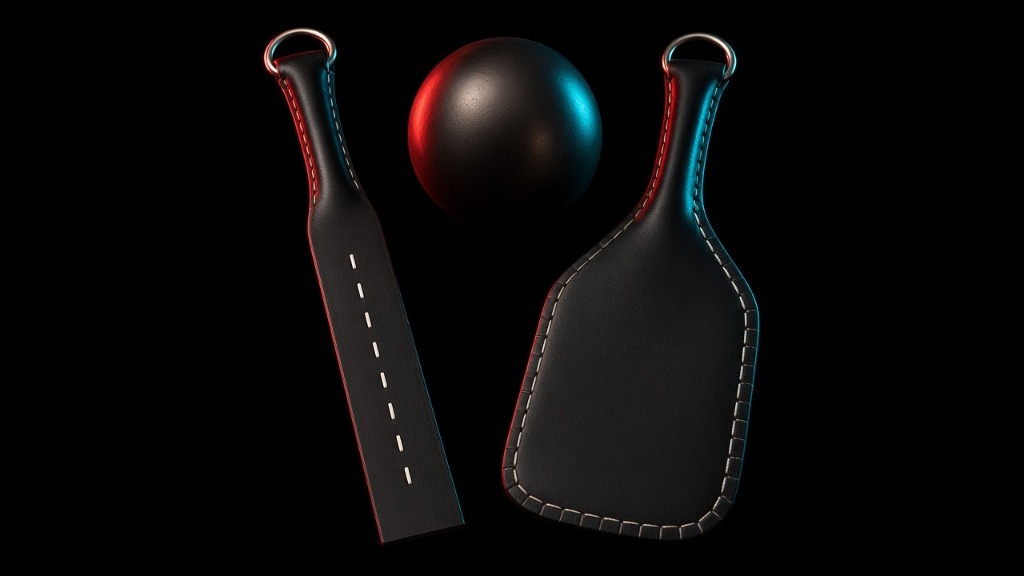
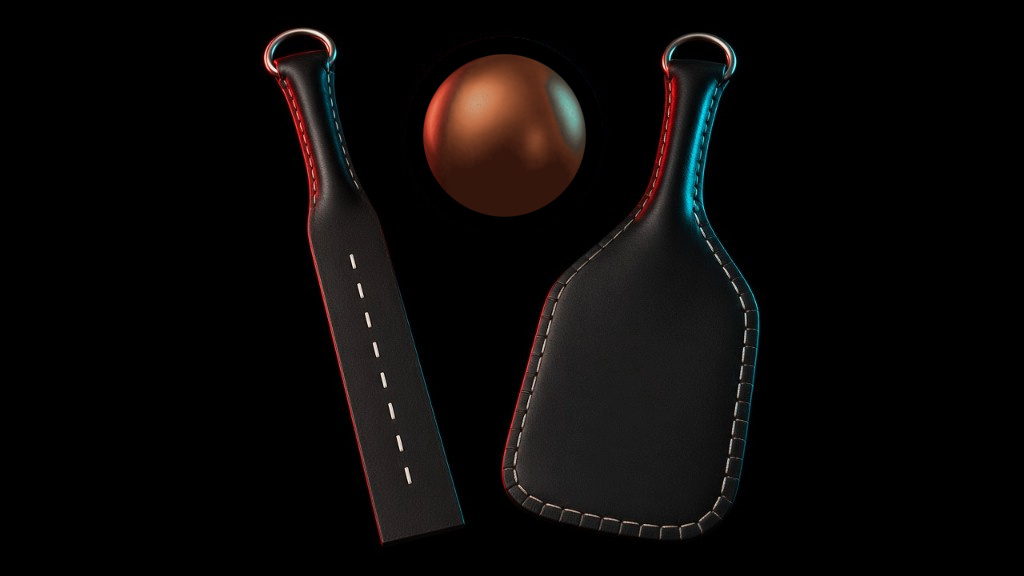
Give the RED sphere a copper finish and scale the photograph from the phone size down to the wide layout.

Changed region(s): [[0.375, 0.0625, 0.5938, 0.375]]

diff --git a/site/styles.css b/site/styles.css
@@ -766,17 +766,23 @@ body:has(.red-page) {
 .red-still img {
   position: absolute;
   display: block;
-  width: min(1120px, 82vw);
+  width: max(1120px, calc(1600px - 25vw));
   max-width: none;
   height: auto;
-  left: 30vw;
+  left: min(30vw, calc(78.571vw - 932.57px));
   top: calc(92px + 0.42 * (100vh - 92px) + 10vh);
   transform: translateY(-42%) scale(0.8);
   transform-origin: center center;
   opacity: 0.58;
   mix-blend-mode: screen;
-  -webkit-mask-image: radial-gradient(ellipse 74% 78% at 62% 48%, #000 36%, transparent 78%);
-  mask-image: radial-gradient(ellipse 74% 78% at 62% 48%, #000 36%, transparent 78%);
+  -webkit-mask-image:
+    linear-gradient(to right, transparent 0%, #000 12%, #000 88%, transparent 100%),
+    linear-gradient(to bottom, #000 0%, #000 64%, transparent 94%);
+  mask-image:
+    linear-gradient(to right, transparent 0%, #000 12%, #000 88%, transparent 100%),
+    linear-gradient(to bottom, #000 0%, #000 64%, transparent 94%);
+  -webkit-mask-composite: source-in;
+  mask-composite: intersect;
 }
 .red-kicker {
   margin: 0;
@@ -822,8 +828,14 @@ body:has(.red-page) {
     transform: scale(0.8);
     transform-origin: center center;
     opacity: 0.62;
-    -webkit-mask-image: radial-gradient(ellipse 52% 48% at 50% 46%, #000 28%, transparent 74%);
-    mask-image: radial-gradient(ellipse 52% 48% at 50% 46%, #000 28%, transparent 74%);
+    -webkit-mask-image:
+      linear-gradient(to right, transparent 0%, #000 18%, #000 82%, transparent 100%),
+      linear-gradient(to bottom, #000 0%, #000 62%, transparent 92%);
+    mask-image:
+      linear-gradient(to right, transparent 0%, #000 18%, #000 82%, transparent 100%),
+      linear-gradient(to bottom, #000 0%, #000 62%, transparent 92%);
+    -webkit-mask-composite: source-in;
+    mask-composite: intersect;
   }
 }
 @media (max-width: 760px) {

diff --git a/site/red.html b/site/red.html
@@ -11,7 +11,7 @@
   <link rel="preconnect" href="https://fonts.googleapis.com">
   <link rel="preconnect" href="https://fonts.gstatic.com" crossorigin>
   <link href="https://fonts.googleapis.com/css2?family=Azeret+Mono:wght@400;700&family=Tektur:wght@600;700&display=swap" rel="stylesheet">
-  <link rel="stylesheet" href="styles.css">
+  <link rel="stylesheet" href="styles.css?v=fit2">
 </head>
 <body>
   <div class="red-still" aria-hidden="true">
@@ -37,7 +37,7 @@
       <h1>RED</h1>
       <p class="red-acts"><span class="return">R</span>ELAX. <span class="return">E</span>NDURE. <span class="return">D</span>ESCEND.</p>
       <p class="red-welcome">Welcome to the <span class="return red-word">RED</span> option.</p>
-      <p>Delivered in short, percussive, deliberate strikes with leather implements, applied to predetermined anatomical regions. It shifts where your attention sits, breaks a loop of tension, fosters cognitive suspension, and then brings you into the present moment, flushed with endorphins, ready to get back to the party.</p>
+      <p>Delivered in short, percussive, deliberate strikes with leather implements, applied to predetermined anatomical regions. It shifts where your attention sits, breaks your loop of tension, fosters cognitive suspension, and then brings you into the present moment, flushed with endorphins, ready to get back to the party.</p>
       <p>Audiences welcome.</p>
       <p class="red-note">When your left hand goes up, the scene ends.</p>
       <a class="red-home" href="index.html">Back to the sanctuary</a>
